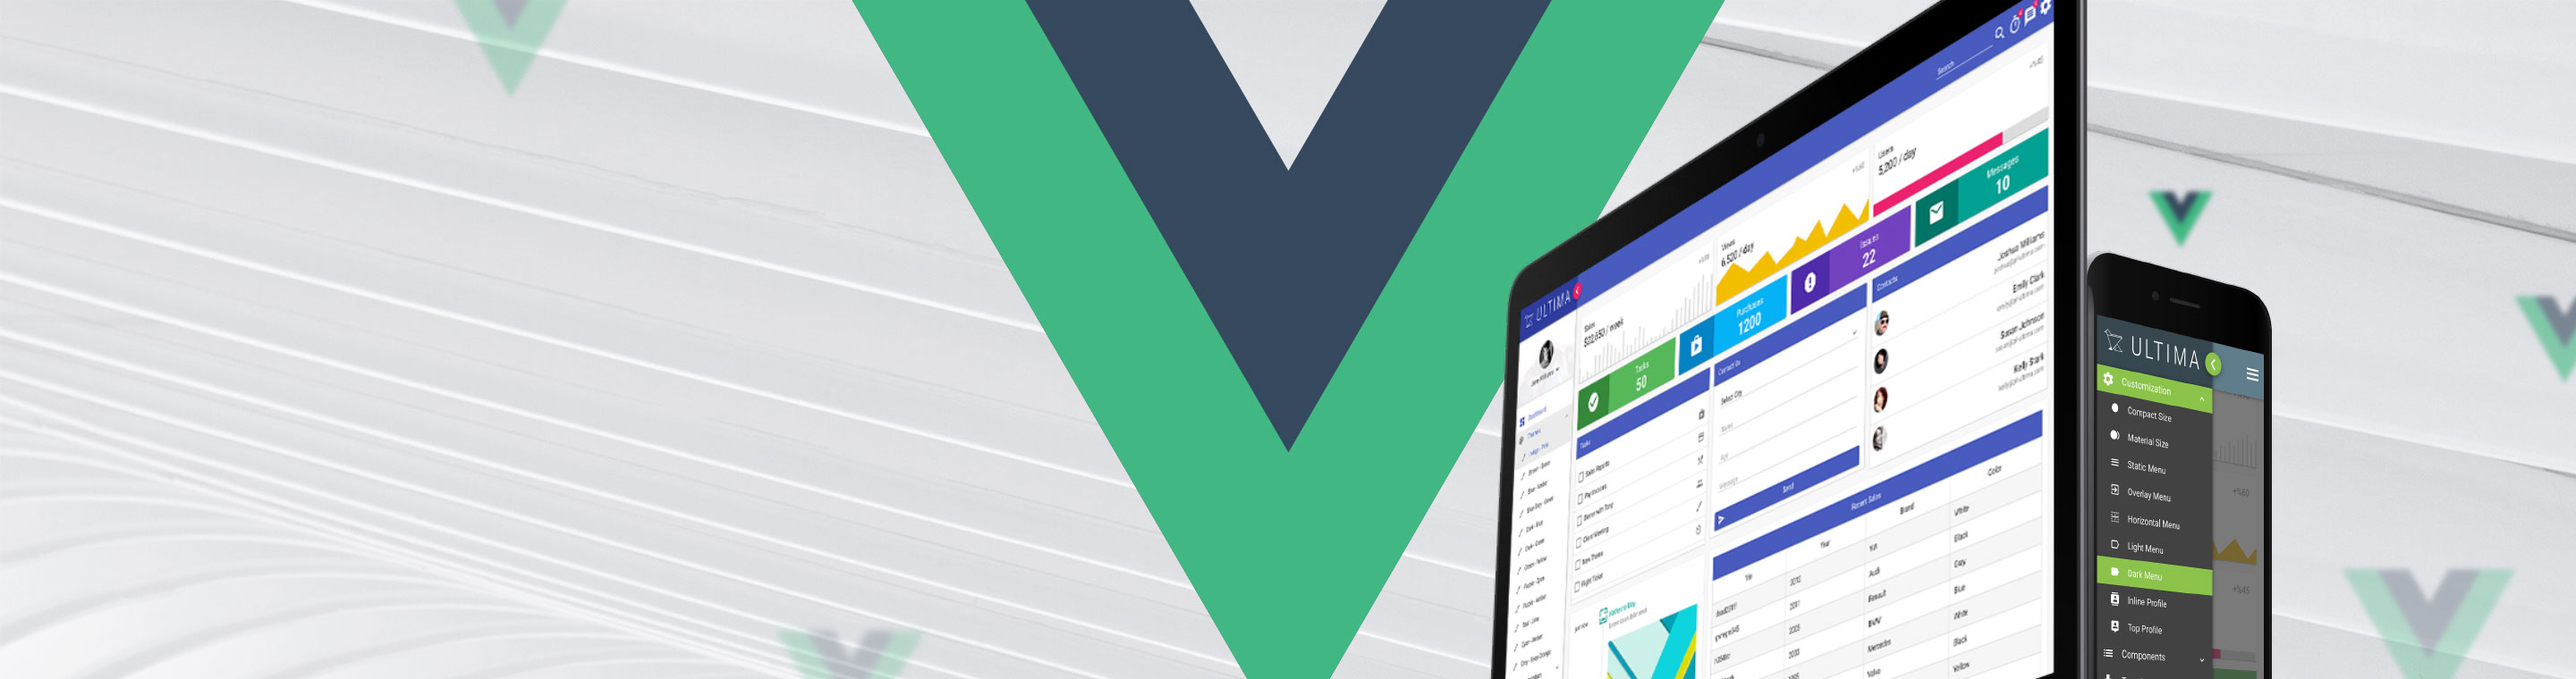
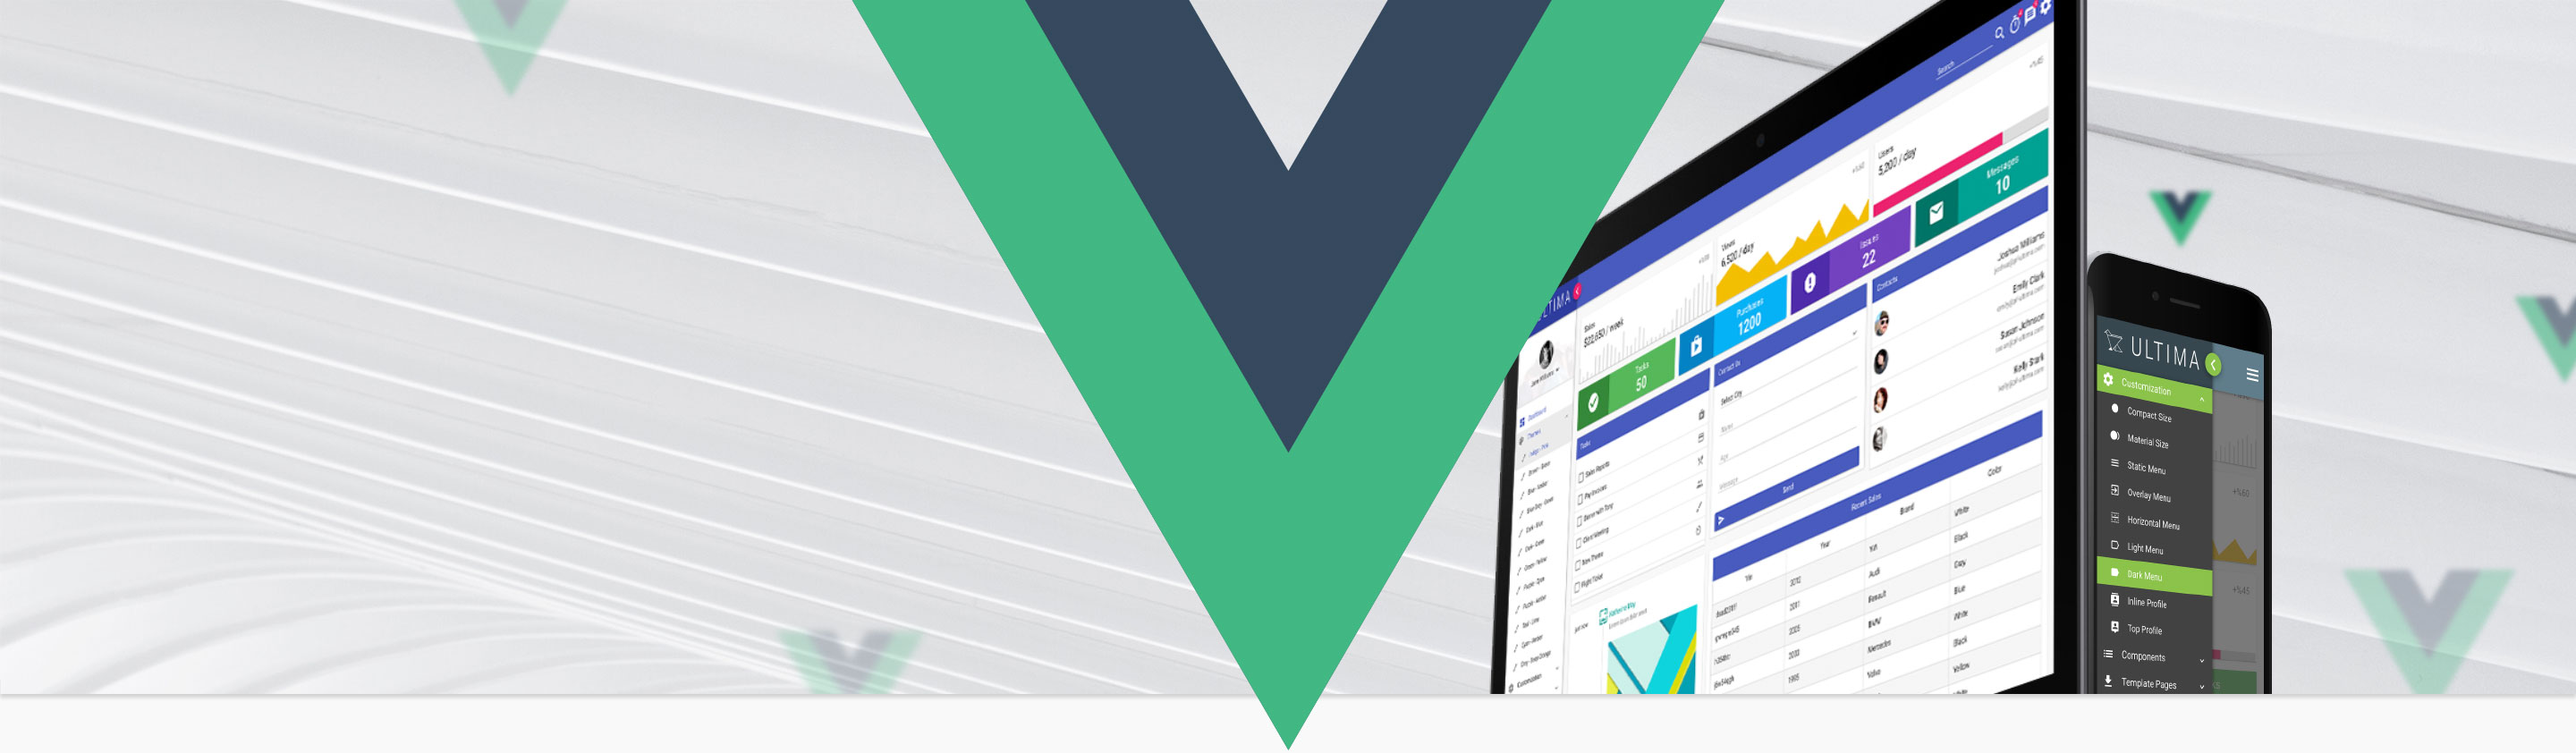
New main image for the homepage

diff --git a/src/assets/styles/app.scss b/src/assets/styles/app.scss
@@ -745,7 +745,7 @@ body {
         background-repeat: no-repeat;
         background-size: cover;
         color: #222222;
-        padding: 80px 30px 100px 50px;
+        padding: 115px 30px 135px 50px;
 
         h1 {
             font-weight: normal;
@@ -770,7 +770,7 @@ body {
     .features {
         background-color: #f9f9f9;
         text-align: center;
-        padding: 30px;
+        padding: 0 30px 30px 30px;
 
         h3 {
              font-size:24px;
